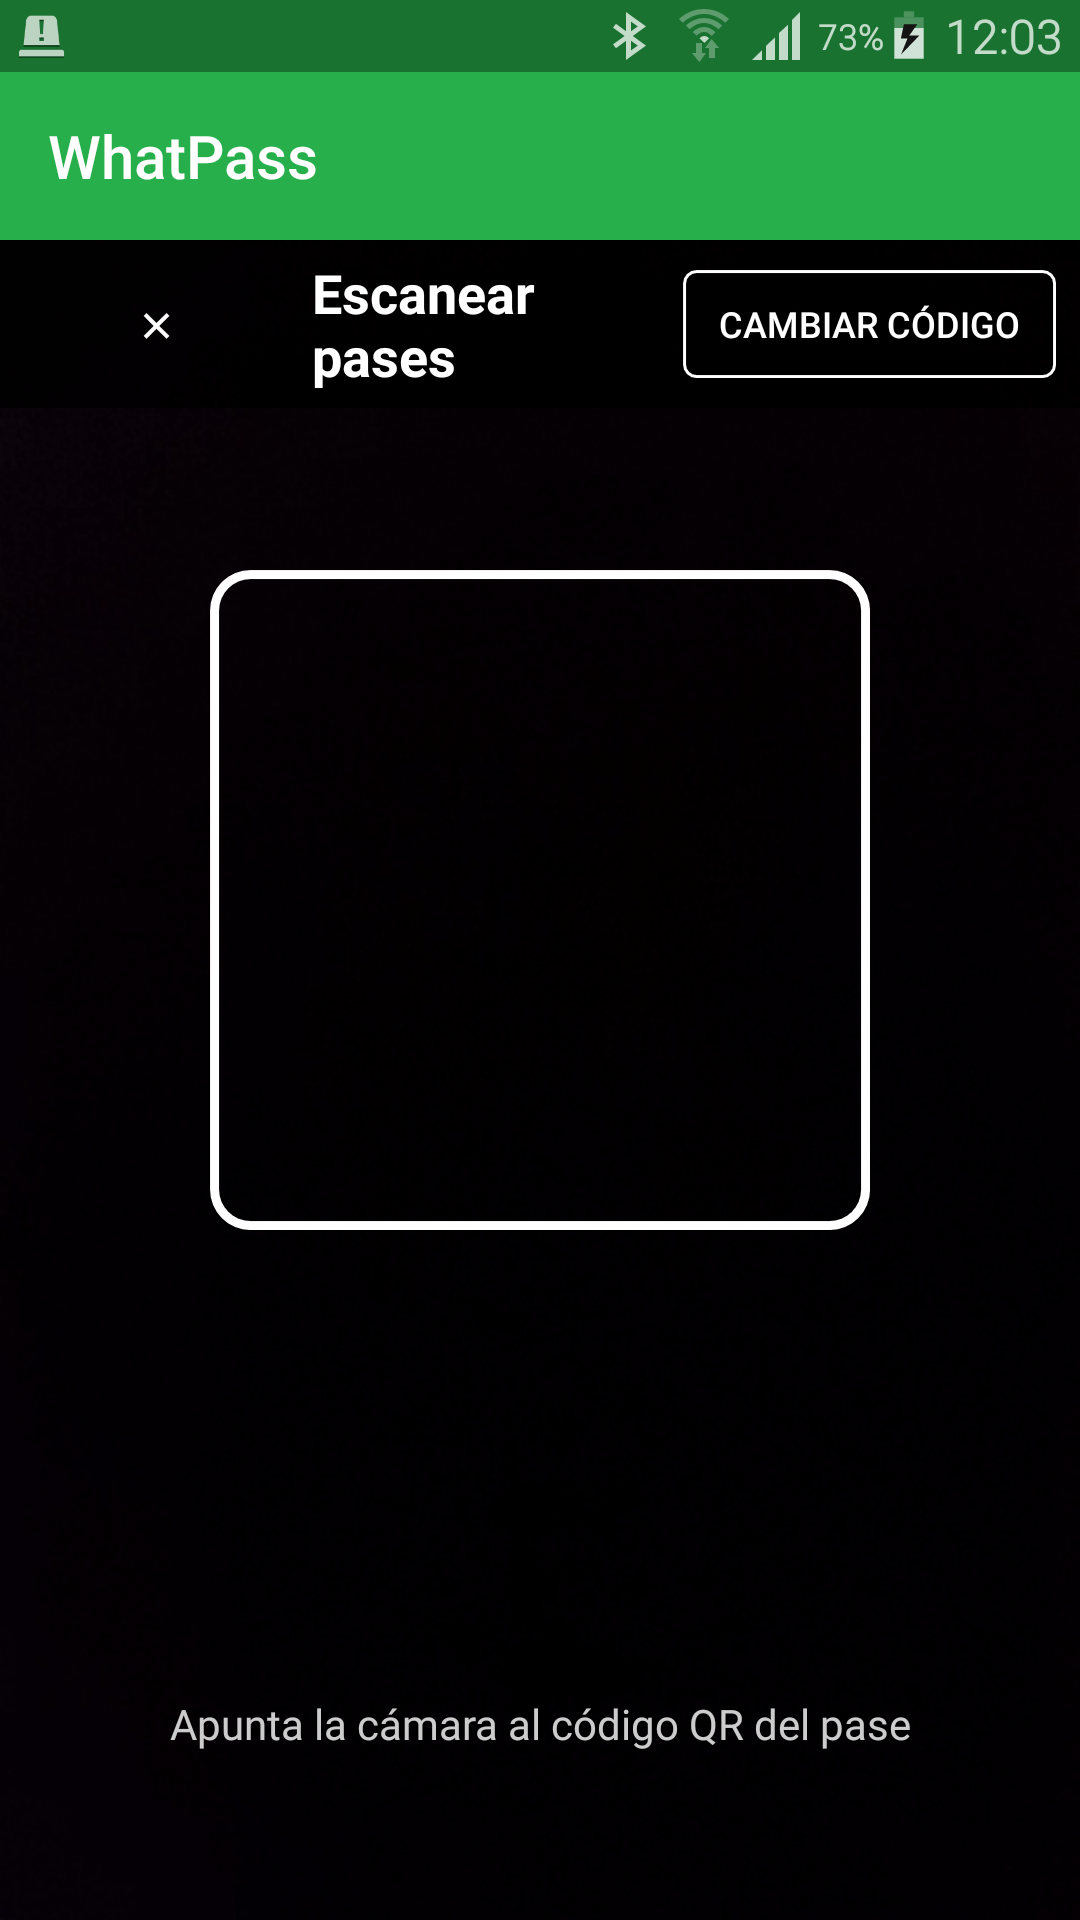
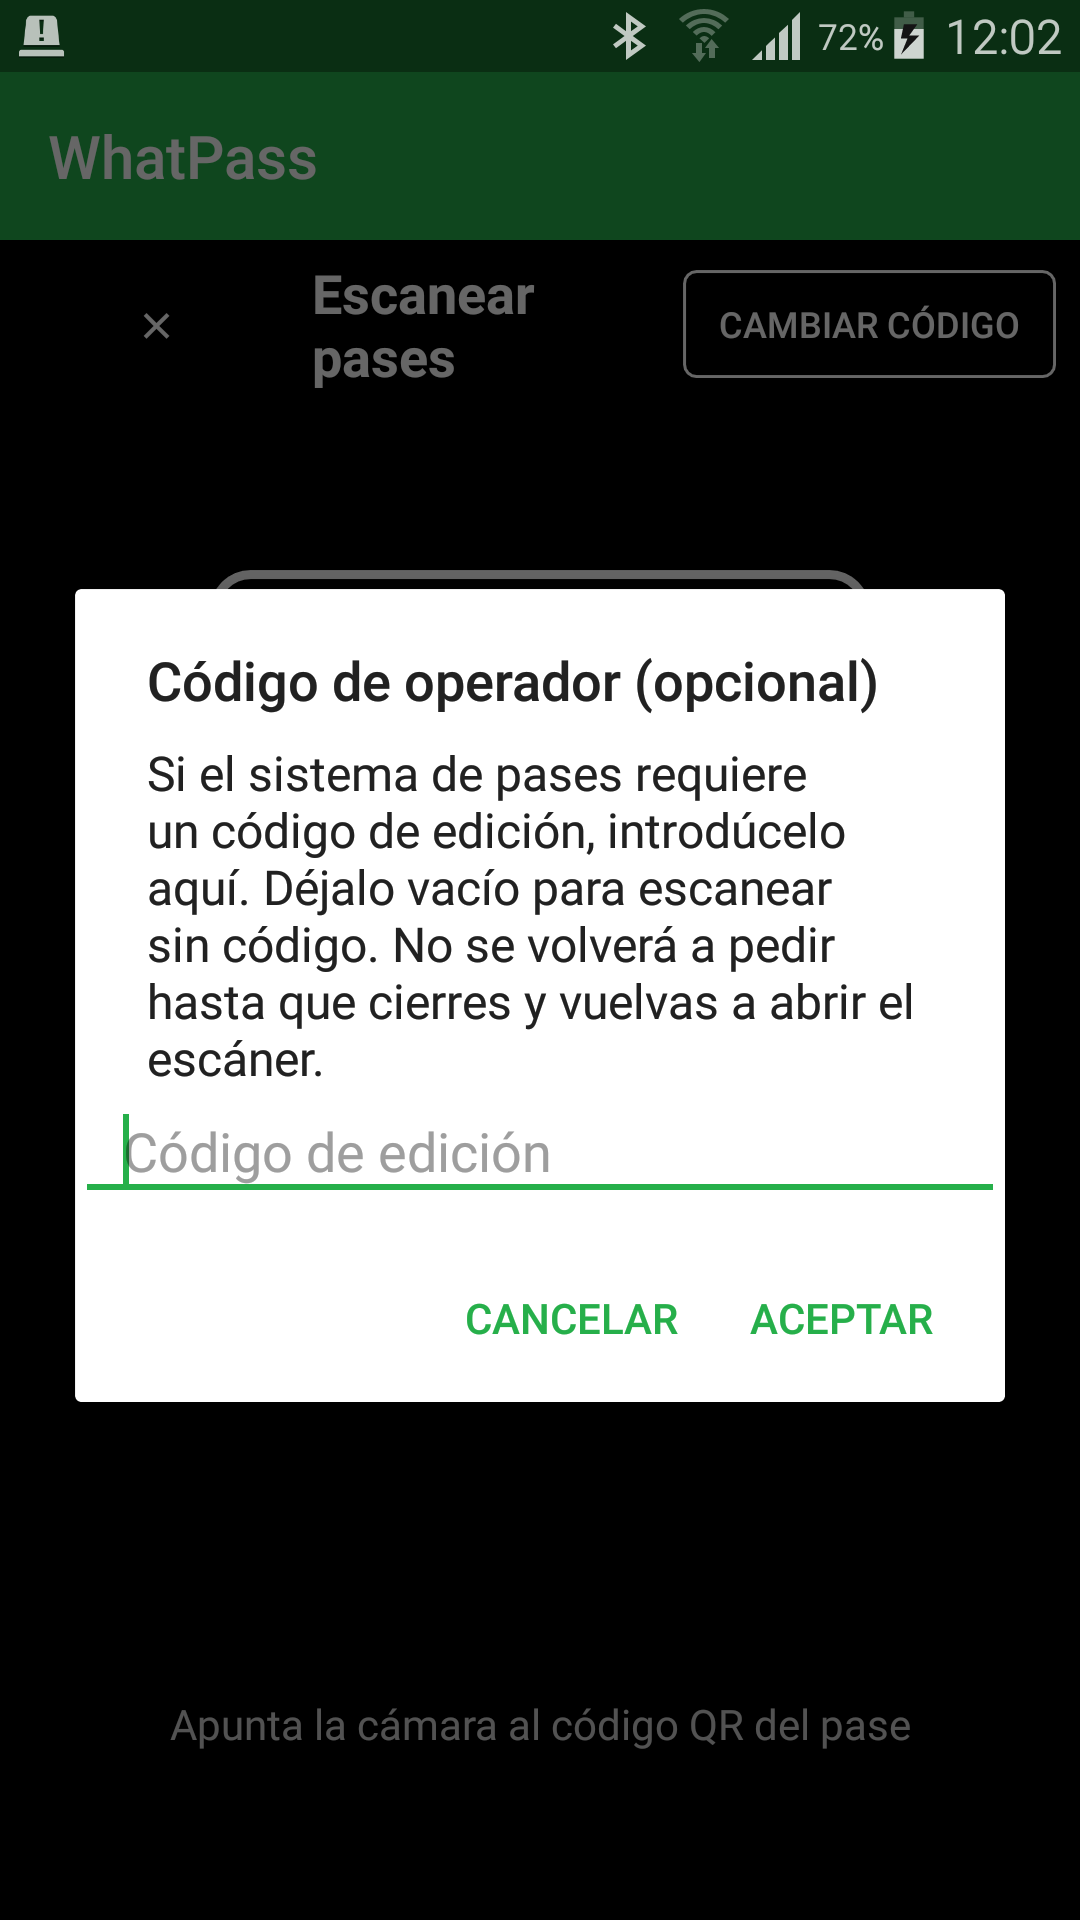
Actualizar capturas de pantalla del README

diff --git a/README.md b/README.md
@@ -10,19 +10,35 @@ WhatPass transforma el teléfono móvil en una cartera digital inteligente capaz
 
 **Repositorio de tarjetas**
 
-![Lista de tarjetas](docs/screenshots/lista_tarjetas.png)
+![Repositorio de tarjetas](docs/screenshots/repositorio.png)
+
+**Tarjeta de embarque**
+
+![Tarjeta de embarque](docs/screenshots/tarjeta_embarque.png)
+
+**Cupón de descuento**
+
+![Cupón de descuento](docs/screenshots/cupon_descuento.png)
+
+**Opciones de tarjeta: compartir, silenciar y eliminar**
+
+![Opciones de tarjeta](docs/screenshots/menu_opciones_tarjeta.png)
+
+**Organización en carpetas**
+
+![Mover a otra carpeta](docs/screenshots/mover_carpeta.png)
 
 **Menú lateral**
 
 ![Menú lateral](docs/screenshots/menu_lateral.png)
 
-**Validar pase — introducir código de operador**
+**Pantalla de opciones**
 
-![Validar pase — código de operador](docs/screenshots/validar_pase_codigo.png)
+![Pantalla de opciones](docs/screenshots/opciones.png)
 
-**Validar pase — escáner QR**
+**Validar pase — código de operador**
 
-![Validar pase — escáner QR](docs/screenshots/validar_pase.png)
+![Validar pase — código de operador](docs/screenshots/validar_pase.png)
 
 **Baliza Bluetooth**
 